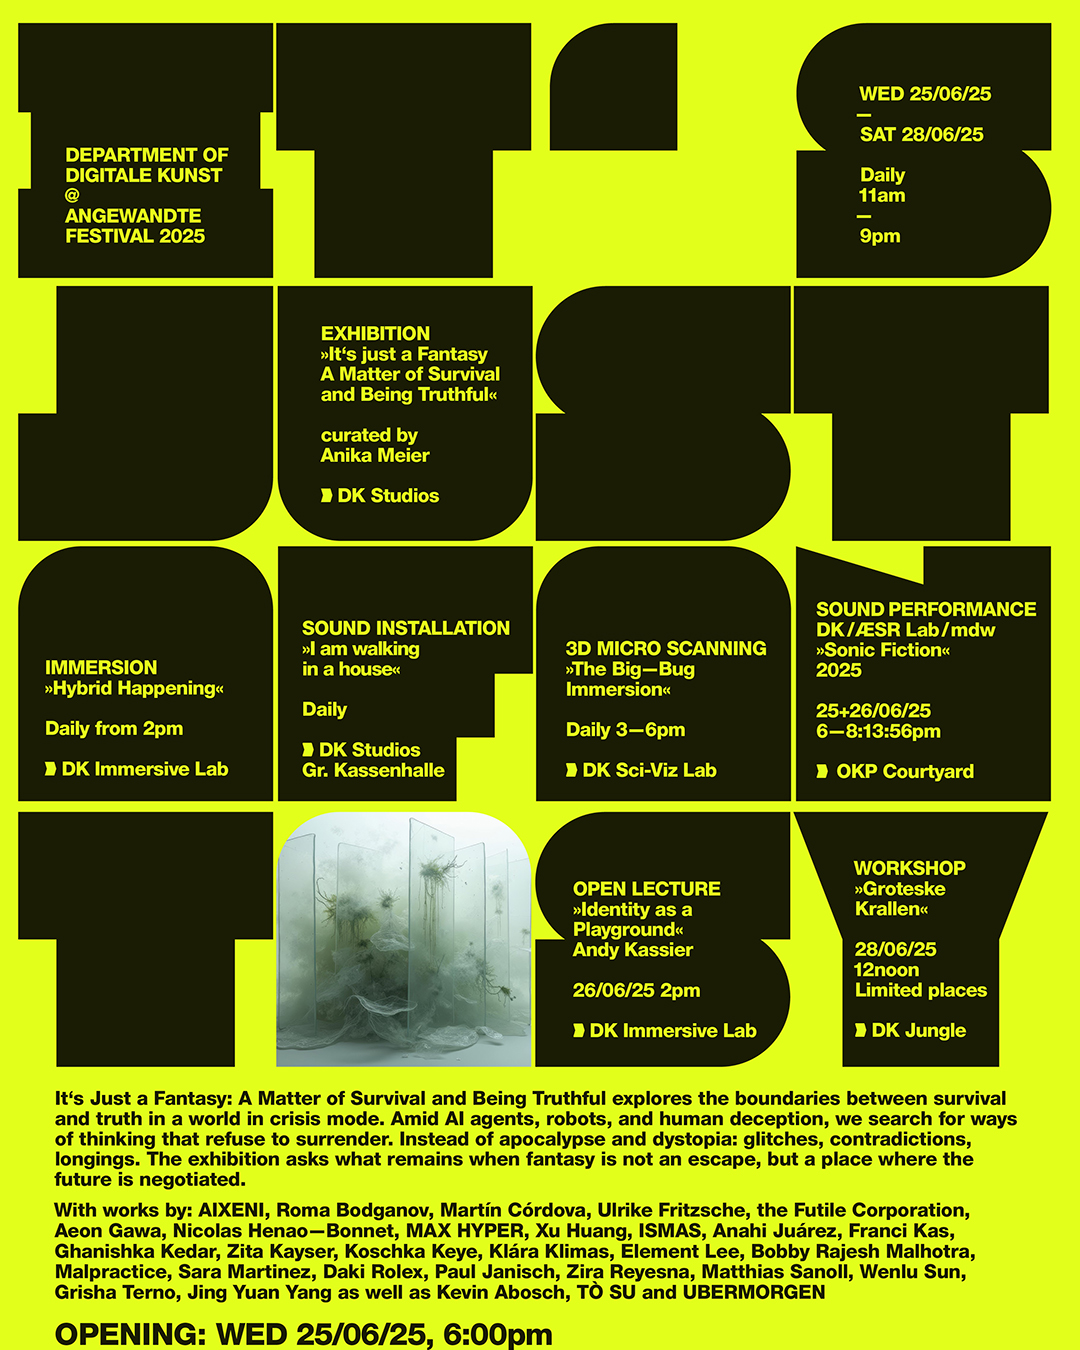
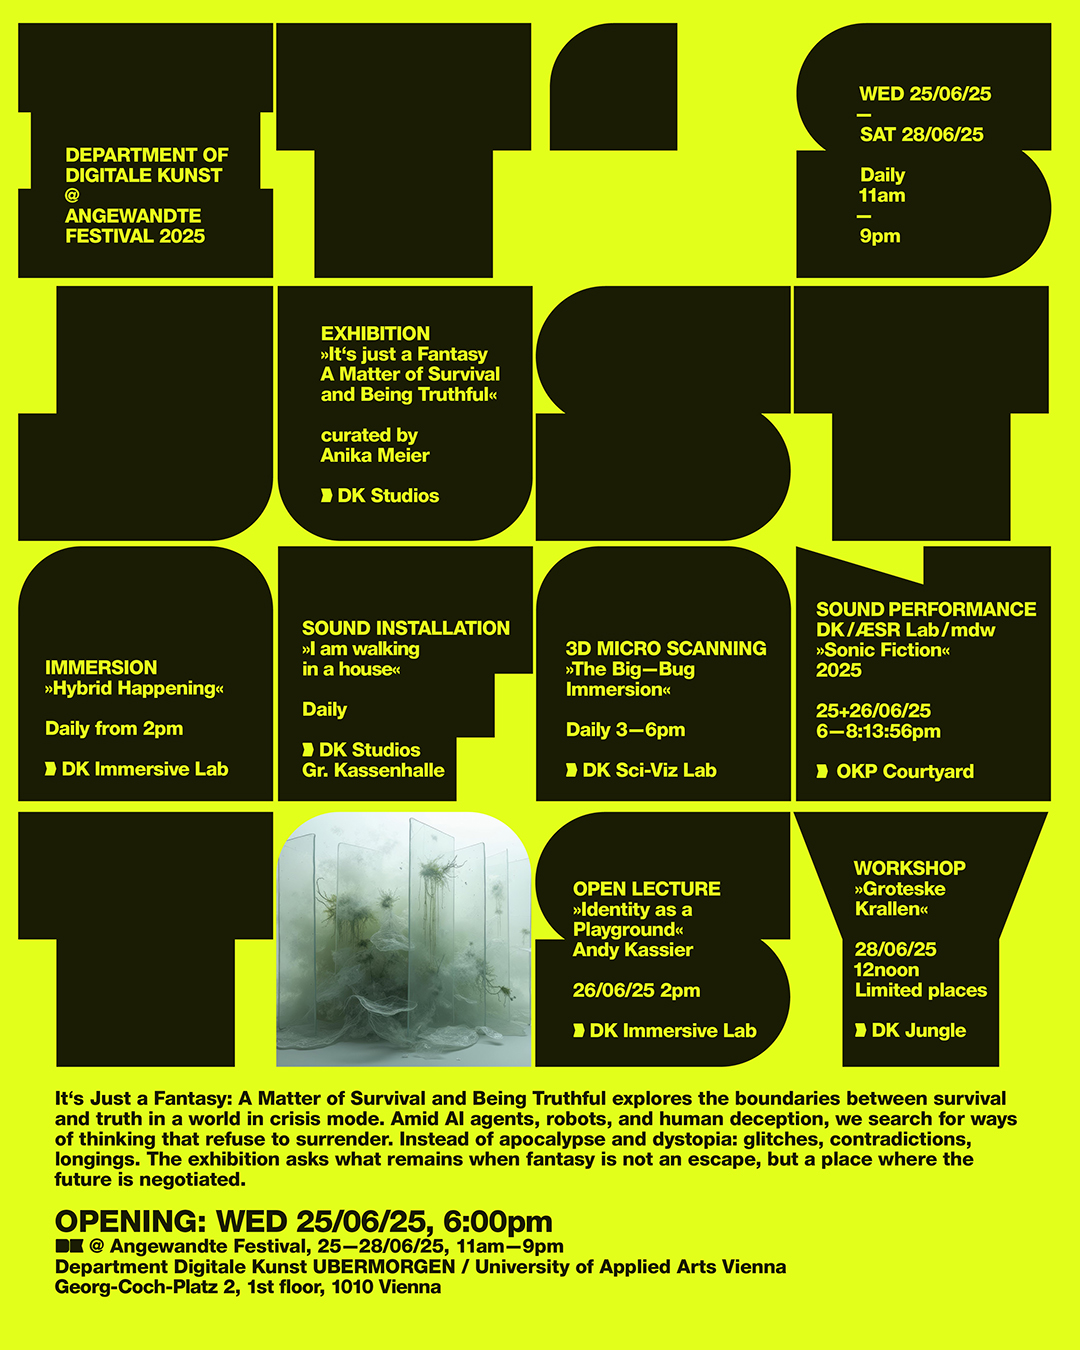
update  Af25 plakat

Changed region(s): [[0.0306, 0.8711, 0.9167, 1.0]]

diff --git a/src/content/af/10_2025_EXHIBITION_DK/index.md b/src/content/af/10_2025_EXHIBITION_DK/index.md
@@ -9,6 +9,8 @@ subFolder: "AF2025"
 # EXHIBITION at Digitale Kunst
 # It’s Just a Fantasy: A Matter of Survival and Being Truthful
 
+![](./AF25-itsjustafantasy-poster.jpg)
+
 It's Just a Fantasy: A Matter of Survival and Being Truthful traces the line between survival and truth in a
 world in crisis mode. Amidst AI agents, robots, and human deception, we search for figures of thought that do
 not capitulate. Instead of apocalypse and dystopia: glitches, contradictions, desires. The exhibition asks
